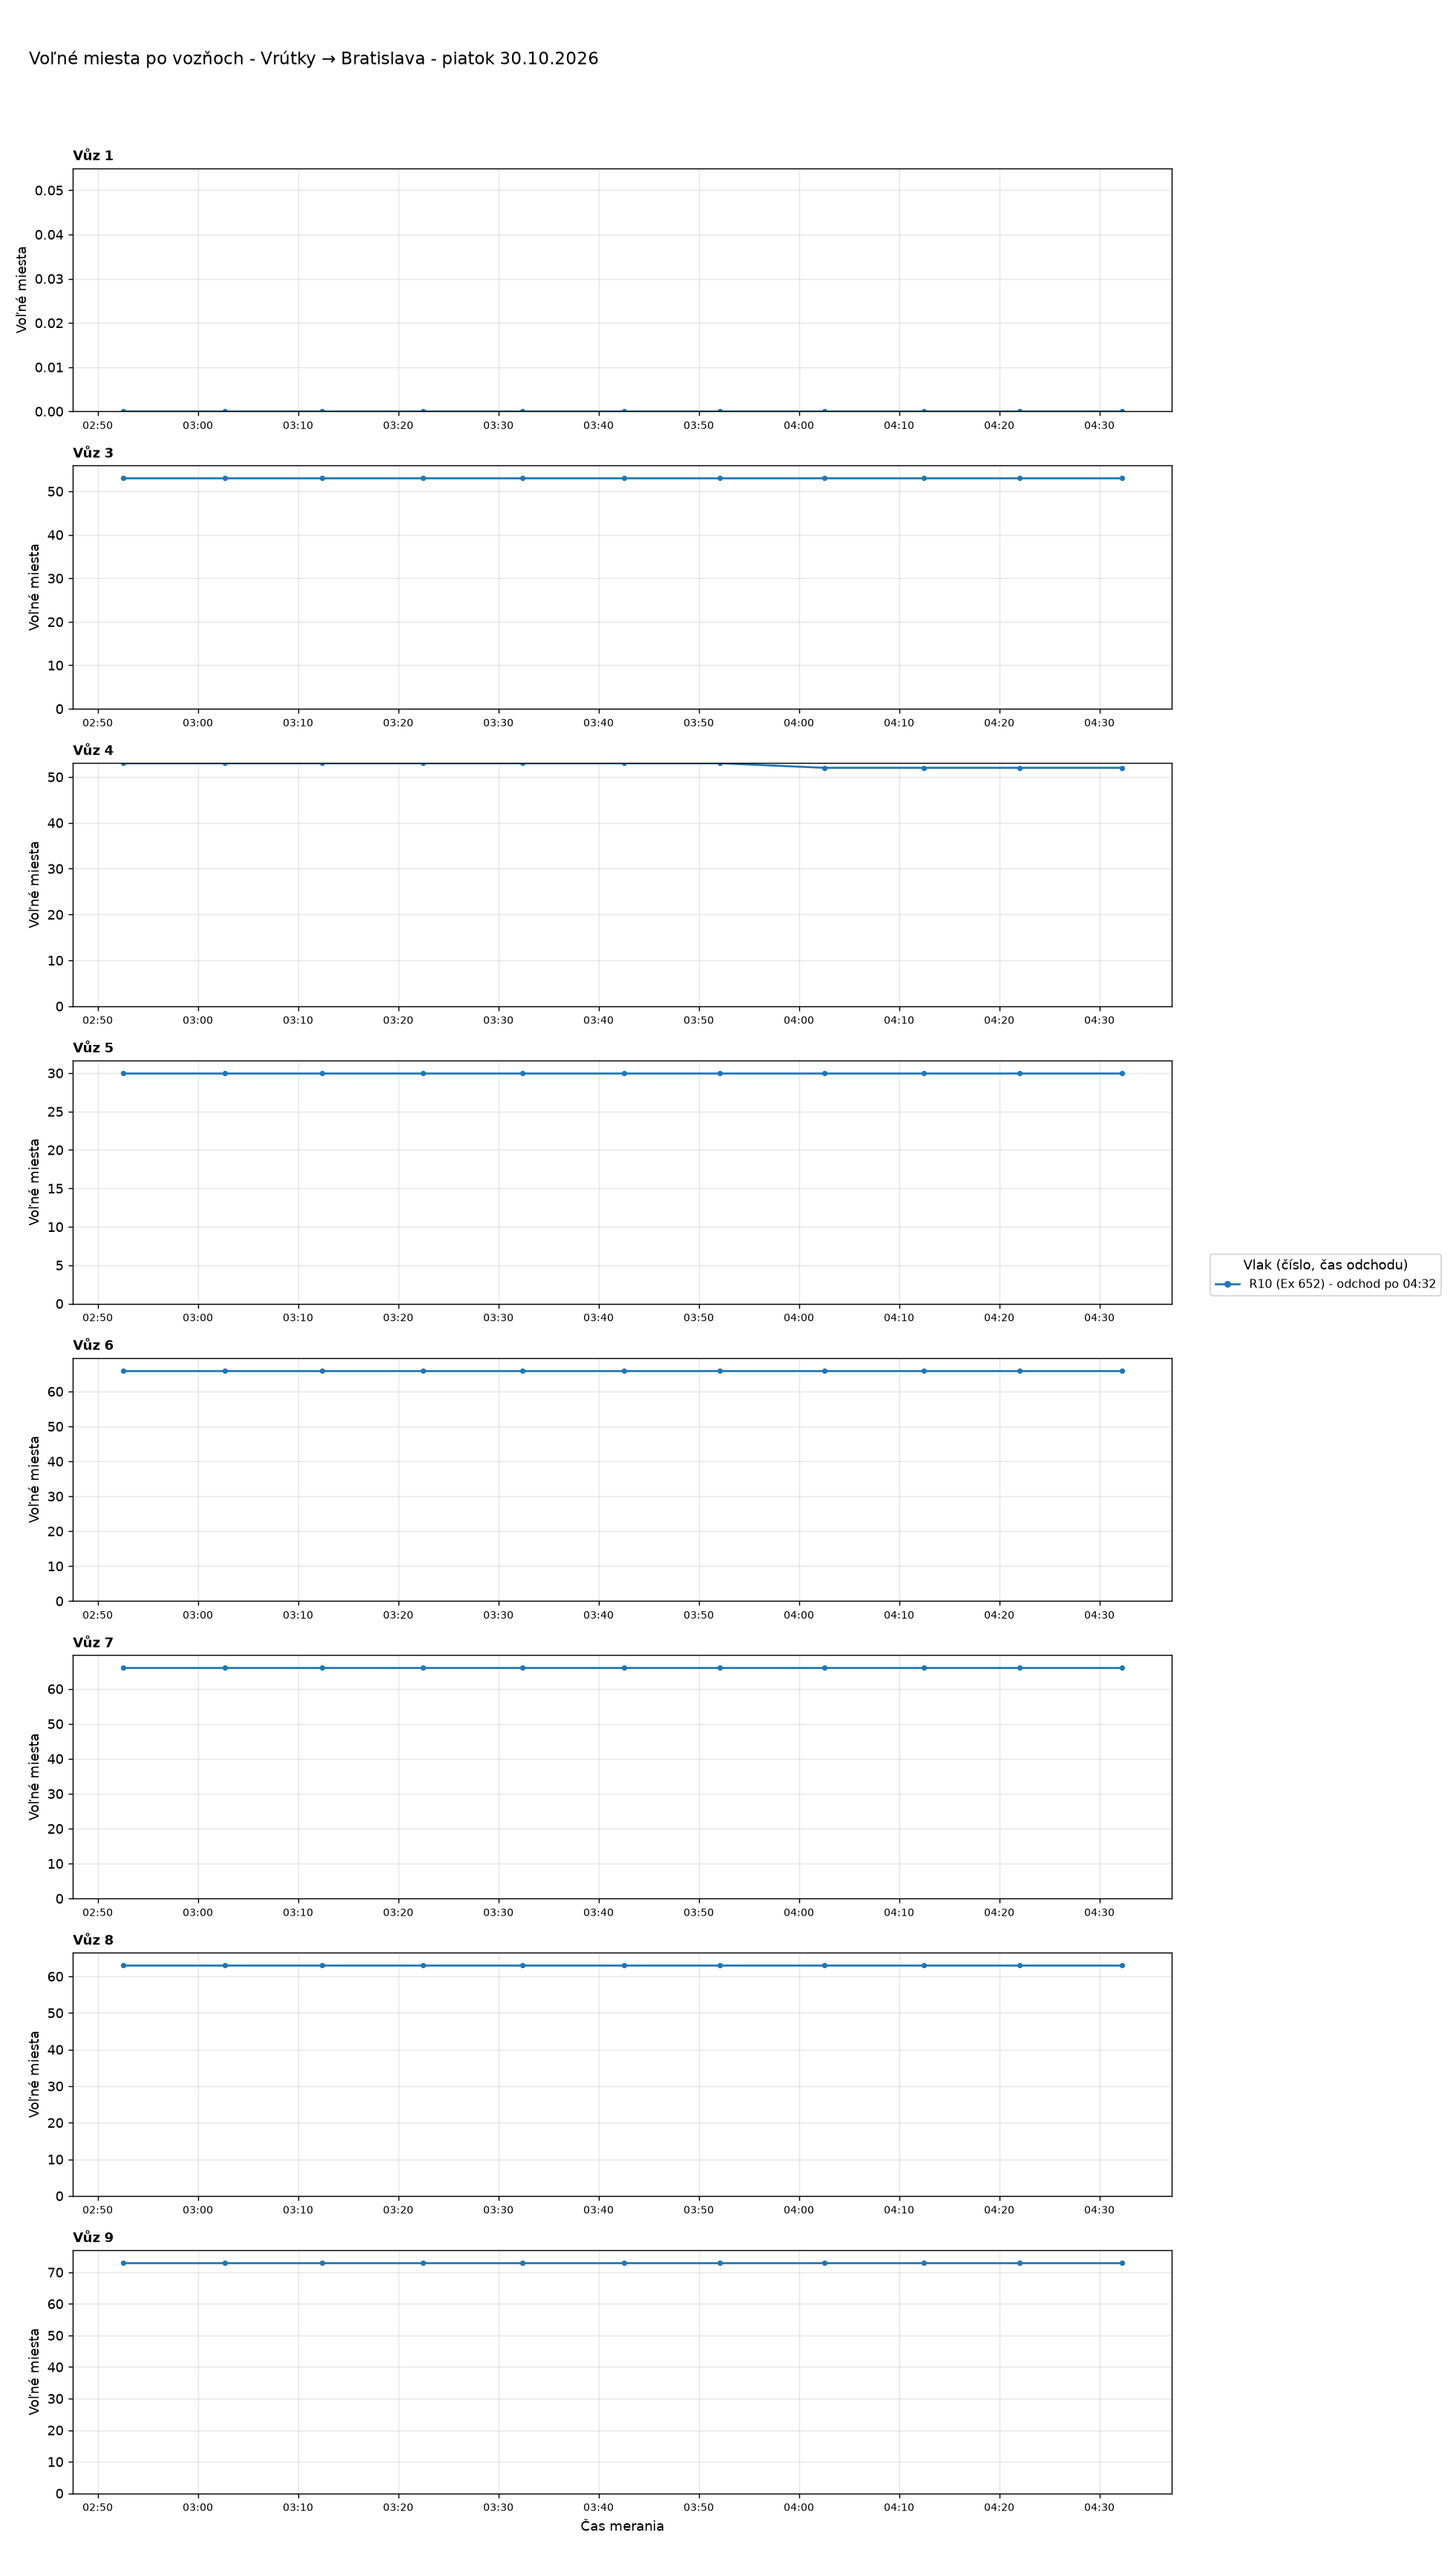
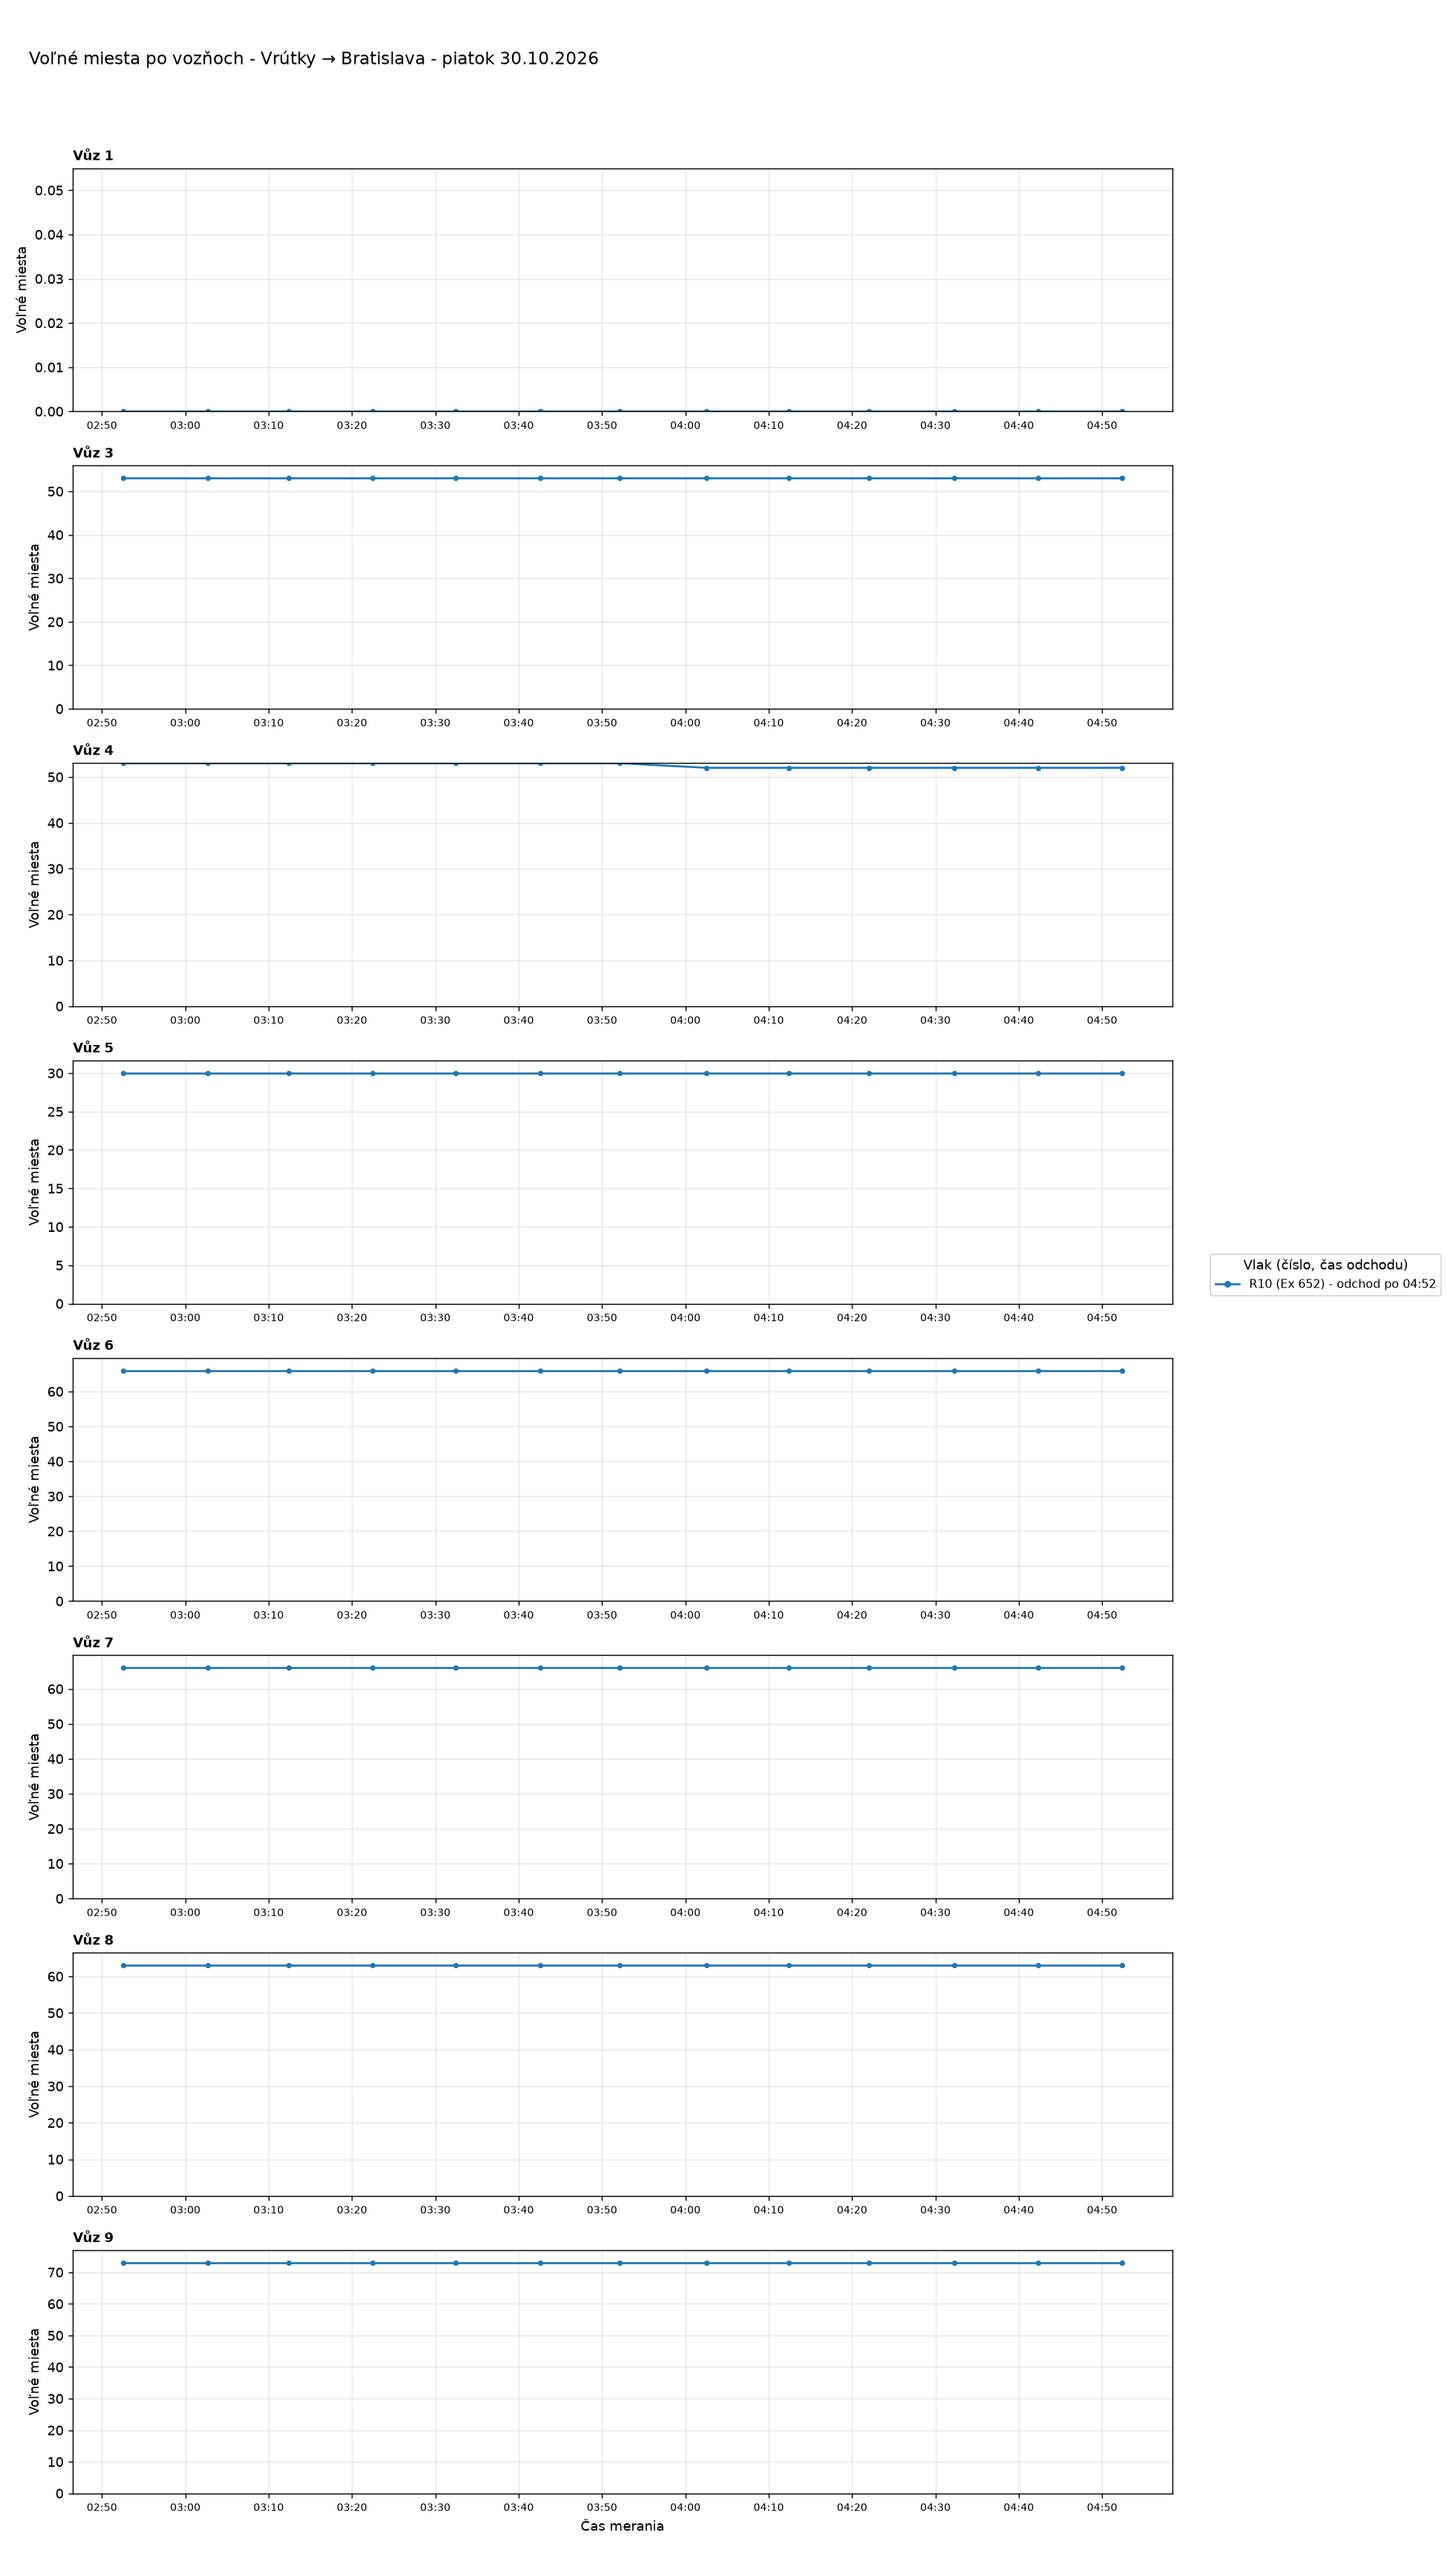
Aktualizácia grafov 2026-10-30 05:04

diff --git a/index.html b/index.html
@@ -37,7 +37,7 @@ details.trasa>summary{cursor:pointer;font-weight:600;font-size:1.1rem;padding:8p
 <body>
 <main>
 <h1>Voľné miesta vo vlakoch</h1>
-<p class="muted">Posledné meranie: 30.10.2026 04:32 ·
+<p class="muted">Posledné meranie: 30.10.2026 04:52 ·
 <a href="data/obsadenost_data.csv">stiahnuť dáta (CSV)</a></p>
 <nav class="nav"><a href="#suhrn">Súhrn</a><a href="#statistiky">Štatistiky</a><a href="#historia">História grafov</a></nav>
 
@@ -47,7 +47,7 @@ details.trasa>summary{cursor:pointer;font-weight:600;font-size:1.1rem;padding:8p
 <thead><tr><th>Deň</th><th>Trasa</th><th>Meraní</th><th>Vlakov</th><th>Čas meraní</th></tr></thead>
 <tbody>
 <tr><td><a href="#dBA-VR-2026-10-30">piatok 30.10.2026</a></td><td>Bratislava → Vrútky</td><td>21</td><td>1</td><td>00:31-04:11</td></tr>
-<tr><td><a href="#dVR-BA-2026-10-30">piatok 30.10.2026</a></td><td>Vrútky → Bratislava</td><td>11</td><td>1</td><td>02:52-04:32</td></tr>
+<tr><td><a href="#dVR-BA-2026-10-30">piatok 30.10.2026</a></td><td>Vrútky → Bratislava</td><td>13</td><td>1</td><td>02:52-04:52</td></tr>
 <tr><td><a href="#dBA-KE-2026-10-30">piatok 30.10.2026</a></td><td>Bratislava → Košice</td><td>21</td><td>1</td><td>00:22-04:13</td></tr>
 <tr><td><a href="#dKE-BA-2026-10-30">piatok 30.10.2026</a></td><td>Košice → Bratislava</td><td>19</td><td>1</td><td>00:23-04:03</td></tr>
 <tr><td><a href="#dBA-VR-2026-10-29">štvrtok 29.10.2026</a></td><td>Bratislava → Vrútky</td><td>84</td><td>14</td><td>00:01-23:31</td></tr>
